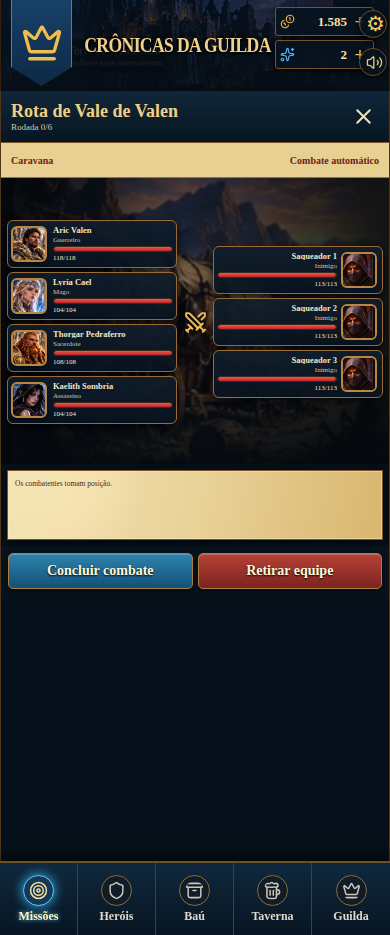
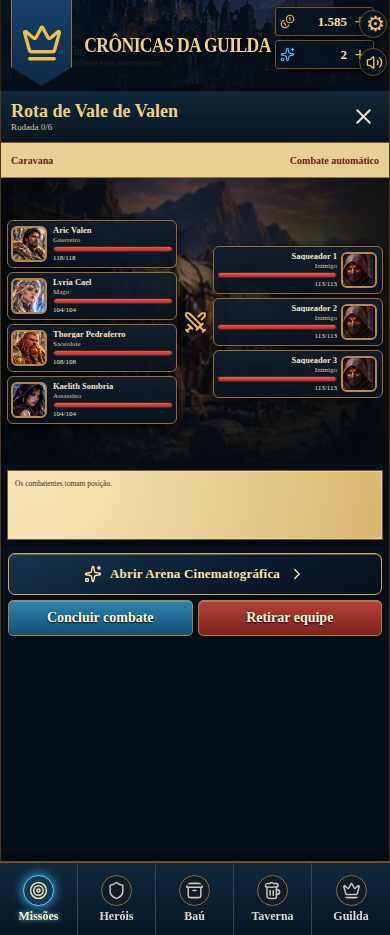
Adiciona Arena Cinematográfica opcional mantendo combate automático clássico
* Cria página cinematográfica independente para confrontos sem alterar combate clássico

* Adiciona estilo de Arena cinematográfica com retratos grandes, efeitos e crônica responsiva

* Testa arena separada no Android, personagens reais, retorno e combate automático

* Exibe estado real de vitória ou derrota na Arena cinematográfica

* Visual snapshots mobile

* Preserva HP real dos combatentes na tela de resultado sem mudar regras

* Audita Arena Cinematográfica e registro correto do HP após combate

* Inclui teste de integridade da Arena no build e smoke

* Prepara campanha de teste com conselho resolvido antes de iniciar missão

* Visual snapshots mobile

* Exibe os quatro heróis da Arena no primeiro painel do Android

* Visual snapshots mobile

---------

Changed region(s): [[0.0, 0.5893, 0.9846, 0.6824]]

diff --git a/app/ui.css b/app/ui.css
@@ -1398,3 +1398,169 @@ img{display:block;max-width:100%}
   .equipment-slot-icon svg{width:23px;height:23px}
   .equipment-slot-copy strong{font-size:10px}
 }
+
+
+/* ARENA CINEMATOGRÁFICA — tela extra, isolada do painel de combate original */
+.battle-actions .cinema-open-button {
+  grid-column:1 / -1;
+  display:flex;align-items:center;justify-content:center;gap:8px;
+  min-height:42px;
+  border:1px solid #d7a64b;border-radius:7px;
+  background:linear-gradient(160deg,#16364f,#0a192e 60%,#07101a);
+  color:#ffe1a0;
+  box-shadow:inset 0 1px #f5d58d55,0 3px 12px #0008;
+  font-size:13px;font-weight:800;letter-spacing:.015em;
+}
+.cinema-open-button svg {width:18px;height:18px}
+.cinema-screen {min-height:100%;padding-bottom:5px;background:#07101b;color:#ffeac1}
+.cinema-screen button:focus-visible {outline:2px solid #fff3bb;outline-offset:2px}
+.cinema-header {
+  display:grid;grid-template-columns:auto minmax(0,1fr) 32px;
+  align-items:center;gap:5px;min-height:48px;padding:6px 9px;
+  background:linear-gradient(180deg,#142638,#07111e);
+  border-bottom:1px solid #bd843b;
+}
+.cinema-back,.cinema-close {border:1px solid #93703d;background:#0f1f30;color:#ffe9b3;border-radius:5px;min-height:31px}
+.cinema-back {display:flex;align-items:center;gap:2px;padding:4px 6px;font-size:10px;font-weight:700}
+.cinema-back svg{width:15px;height:15px}
+.cinema-close{display:grid;place-items:center}
+.cinema-close svg{width:19px;height:19px}
+.cinema-header-label {display:flex;align-items:center;justify-content:center;gap:5px;color:#e3bf78;font-size:10px;font-weight:900;letter-spacing:.04em;white-space:nowrap}
+.cinema-header-label svg{width:15px;height:15px}
+.cinema-mission-head {
+  display:flex;justify-content:space-between;align-items:center;gap:8px;
+  padding:10px 12px 9px;
+  background:linear-gradient(90deg,#172a3bc9,#0e1728bf),url("/reference/mission-3.webp") center 42%/cover;
+  border-bottom:1px solid #78542a;
+}
+.cinema-eyebrow{color:#deb875;font-size:9px;letter-spacing:.11em;font-weight:800}
+.cinema-mission-head h2 {font-size:21px;color:#f8d48b;margin:1px 0;text-shadow:0 2px 3px #000}
+.cinema-mission-head p {font-size:10px;margin:0;color:#e1d3b9}
+.cinema-round {flex-shrink:0;min-width:77px;padding:6px 8px;text-align:center;border:1px solid #ad813f;border-radius:5px;background:#09121ddc;box-shadow:inset 0 0 12px #e3a34422}
+.cinema-round span{display:block;color:#d7b578;font-size:8px;letter-spacing:.09em}
+.cinema-round strong{color:#fff0c0;font-size:17px;white-space:nowrap}
+.cinema-objective-line {
+  display:grid;grid-template-columns:15px minmax(0,1fr) auto;align-items:center;gap:5px;
+  min-height:34px;padding:6px 9px;
+  background:linear-gradient(180deg,#f0d8a5,#c9a166);
+  color:#593316;border-bottom:2px solid #694322;font-size:10px;
+}
+.cinema-objective-line svg{width:14px;height:14px}
+.cinema-objective-line span{overflow:hidden;display:-webkit-box;-webkit-line-clamp:2;-webkit-box-orient:vertical;line-height:1.2}
+.cinema-objective-line b{font-size:9px;color:#7b311b;white-space:nowrap}
+.cinema-arena {
+  position:relative;isolation:isolate;min-height:385px;overflow:hidden;
+  padding:9px 7px 12px;
+  background:linear-gradient(90deg,#06111add 0%,#1323315b 49%,#07111ce6 100%),
+    linear-gradient(180deg,#09121c33 30%,#030609cc),
+    url("/reference/mission-3.webp") center/cover no-repeat;
+  border-bottom:2px solid #b7883a;
+}
+.cinema-atmosphere{position:absolute;inset:0;pointer-events:none;z-index:-1;
+  background:radial-gradient(ellipse at 48% 38%,#67b3e825,transparent 58%),
+  radial-gradient(ellipse at 72% 70%,#ff512e20,transparent 50%);}
+.cinema-arena::before{content:"";position:absolute;inset:0;pointer-events:none;
+  background:repeating-linear-gradient(0deg,transparent,transparent 88px,#ffdf8f07 90px);
+  z-index:0}
+.cinema-fronts{position:relative;z-index:1;display:grid;grid-template-columns:minmax(0,1fr) minmax(0,1fr);gap:9px}
+.cinema-lineup{display:flex;flex-direction:column;gap:7px;min-width:0}
+.cinema-lineup-title{
+  min-height:30px;display:flex;gap:5px;align-items:center;justify-content:center;
+  background:linear-gradient(180deg,#10263eee,#0b1528e9);
+  border:1px solid #b98b49;border-radius:5px;
+  color:#ffde98;text-shadow:0 1px #000;font-size:10px;font-weight:900;letter-spacing:.055em;
+}
+.cinema-lineup-title svg{width:15px;height:15px}
+.cinema-enemies .cinema-lineup-title{background:linear-gradient(180deg,#431e22ee,#190d16f2);border-color:#bb6a50;color:#ffcbaf}
+.cinema-fighter{
+  position:relative;isolation:isolate;overflow:hidden;min-width:0;
+  height:151px;border:1px solid #d3a04e;border-radius:8px;
+  background:#121925;box-shadow:inset 0 0 20px #0007,0 4px 12px #000b;
+}
+.cinema-fighter[data-defeated="true"]{filter:grayscale(.78);opacity:.58}
+.cinema-foe{border-color:#b65a43}
+.cinema-fighter-art{position:absolute;inset:0;z-index:-1}
+.cinema-fighter-art::after{content:"";position:absolute;inset:0;background:linear-gradient(180deg,#02071400 8%,#02071312 38%,#020713ce 80%,#020713f4)}
+.cinema-foe .cinema-fighter-art::after{background:linear-gradient(180deg,#13040705 10%,#13040712 38%,#130407c9 80%,#12060af4)}
+.cinema-fighter-art img{display:block;width:100%;height:100%;object-fit:cover;object-position:center 22%}
+.cinema-foe .cinema-fighter-art img{object-position:center 38%}
+.cinema-art-index{position:absolute;top:4px;left:5px;z-index:1;min-width:20px;height:20px;display:grid;place-items:center;
+  border:1px solid #ebc37a;border-radius:50%;background:#102238e8;color:#ffe9ad;font-size:11px;font-weight:900}
+.cinema-foe .cinema-art-index{left:auto;right:5px;background:#4c1e20e8}
+.cinema-fighter-info{position:absolute;left:0;right:0;bottom:0;display:flex;flex-direction:column;gap:2px;padding:5px 6px 5px;text-shadow:0 1px 3px #000}
+.cinema-fighter-info strong{font-size:11px;line-height:1.06;min-height:12px;overflow:hidden;display:-webkit-box;-webkit-line-clamp:2;-webkit-box-orient:vertical;color:#ffdda2}
+.cinema-foe .cinema-fighter-info strong{color:#ffd3c4}
+.cinema-fighter-info small{color:#e9d9b9;font-size:9px;line-height:1.05}
+.cinema-health{height:8px;overflow:hidden;border:1px solid #cb9653;border-radius:5px;background:#280c13;box-shadow:0 1px 3px #0006}
+.cinema-health i{height:100%;display:block;background:linear-gradient(180deg,#ff6e60,#a91724);transition:width .45s ease}
+.cinema-hp{font-size:9px;color:#fff0ce;font-weight:700;line-height:1.15;text-align:center}
+.cinema-effects{display:flex;gap:3px;flex-wrap:wrap;align-items:center}
+.cinema-effects em{font-style:normal;color:#fff8e4;background:#7c3531c9;border:1px solid #ff8a6752;
+  padding:2px 3px;border-radius:3px;font-size:8px;line-height:1}
+.cinema-effects em[data-status="shield"],.cinema-effects em[data-status="inspired"],.cinema-effects em[data-status="regen"]{background:#1d5b5cc9;border-color:#74f4df70}
+.cinema-clash{position:absolute;left:50%;top:36%;transform:translate(-50%,-50%);
+  width:42px;height:42px;display:grid;place-items:center;z-index:3;
+  color:#f4ce75;background:radial-gradient(circle,#432718ee,#100e13c7 68%,transparent 75%);
+  filter:drop-shadow(0 0 8px #e8ad6166);border-radius:50%;pointer-events:none}
+.cinema-clash svg{width:26px;height:26px}
+.cinema-lightning{position:absolute;top:35%;left:23%;right:23%;height:3px;z-index:2;
+  transform:rotate(-8deg);pointer-events:none;opacity:0;
+  background:linear-gradient(90deg,transparent,#6acaff,#fff7cf,#fd7e3b,transparent);
+  box-shadow:0 0 13px #ffc878,0 0 26px #448df5;animation:cinema-flash 2s ease-out both}
+.cinema-hit{position:absolute;z-index:4;left:50%;top:32%;transform:translate(-50%,-50%);
+  pointer-events:none;display:grid;place-items:center;gap:0;opacity:0;
+  text-align:center;color:#ffcc5e;text-shadow:0 2px 2px #36030a,0 0 12px #c82c15;
+  animation:cinema-number 2.1s ease-out both}
+.cinema-hit b{font-size:26px;line-height:1;font-weight:900}
+.cinema-hit small{font-size:14px;font-weight:900}
+.cinema-hit svg{width:32px;height:32px}
+.cinema-hit-heal{color:#80ffc9;text-shadow:0 2px 3px #053524,0 0 10px #119c68}
+.cinema-hit-critical{color:#fff58e}
+.cinema-hit-magic{color:#98cfff}
+@keyframes cinema-flash{0%{opacity:0;transform:scaleX(.2) rotate(-8deg)}18%{opacity:1;transform:scaleX(1) rotate(-8deg)}45%{opacity:.7}100%{opacity:0}}
+@keyframes cinema-number{0%{opacity:0;transform:translate(-50%,-28%) scale(.65)}19%{opacity:1;transform:translate(-50%,-50%) scale(1.15)}55%{opacity:1;transform:translate(-50%,-85%)}100%{opacity:0;transform:translate(-50%,-145%)}}
+.cinema-turn-bar{display:flex;align-items:center;justify-content:space-between;gap:6px;padding:9px 10px;background:linear-gradient(180deg,#172a3a,#0a1521);border-bottom:1px solid #a67839}
+.cinema-turn-title{display:flex;align-items:center;gap:5px;color:#f2c980;font-size:12px;font-weight:800}
+.cinema-turn-title svg{width:17px;height:17px}
+.cinema-turn-bar>span{color:#cbbda0;font-size:10px;text-align:right}
+.cinema-chronicle{margin:8px 7px;padding:0;overflow:hidden;background:linear-gradient(180deg,#f4dfb0,#d8b97e);color:#4a2a18;border:2px solid #a47c43}
+.cinema-chronicle header{display:flex;align-items:center;gap:6px;min-height:32px;padding:5px 8px;background:#553019;color:#ffe8ae;border-bottom:2px solid #a37a40}
+.cinema-chronicle header svg{width:18px;height:18px}
+.cinema-chronicle header h3{font-size:15px;margin:0;flex:1}
+.cinema-chronicle header small{font-size:9px}
+.cinema-chronicle-entries{display:grid;max-height:190px;overflow:auto}
+.cinema-chronicle p{margin:0;display:grid;grid-template-columns:20px minmax(0,1fr);align-items:start;gap:6px;
+  padding:8px 9px;border-bottom:1px solid #ae8d5b;font-size:11px;line-height:1.3}
+.cinema-chronicle p:last-child{border:0}
+.cinema-chronicle p[data-kind="critical"]{color:#9f301e;font-weight:700}
+.cinema-chronicle p[data-kind="heal"]{color:#196d44;font-weight:700}
+.cinema-log-icon{font-size:17px;line-height:1}
+.cinema-actions{
+  position:sticky;bottom:0;z-index:6;display:grid;grid-template-columns:minmax(0,1fr) minmax(0,1fr);gap:7px;
+  padding:8px;background:#091421ed;box-shadow:0 -4px 12px #0009;border-top:1px solid #aa7538}
+.cinema-actions .action-button{min-height:43px;font-size:12px;display:flex;align-items:center;justify-content:center;gap:5px}
+.cinema-actions svg{width:16px;height:16px}
+.cinema-actions .huge{grid-column:1 / -1}
+.cinema-no-items{margin:4px 12px 12px;color:#b7aa8e;font-size:9px;text-align:center;line-height:1.3}
+@media(max-width:430px){
+  .cinema-header-label{font-size:9px}
+  .cinema-arena{padding:7px 5px 9px}
+  .cinema-fronts{gap:7px}
+  .cinema-lineup{gap:6px}
+  .cinema-fighter{height:124px}
+  .cinema-mission-head h2{font-size:19px}
+  .cinema-fighter-info{padding:4px 5px}
+}
+@media(max-width:355px){
+  .cinema-header-label{font-size:8px}
+  .cinema-back{font-size:9px}
+  .cinema-fighter{height:119px}
+  .cinema-fighter-info strong{font-size:10px}
+  .cinema-effects em{font-size:7px}
+  .cinema-objective-line{grid-template-columns:15px minmax(0,1fr);font-size:9px}
+  .cinema-objective-line b{grid-column:2;font-size:9px}
+}
+@media(prefers-reduced-motion:reduce){
+  .cinema-lightning,.cinema-hit{animation:none;opacity:0}
+  .cinema-health i{transition:none}
+}

diff --git a/app/game-client.tsx b/app/game-client.tsx
@@ -716,14 +716,108 @@ function GuildPage({
   </section>;
 }
 
-function BattleOverlay({ state, expedition, act, close, busy }: {
-  state: Campaign; expedition: Expedition; act: (a: Action) => void; close: () => void; busy: boolean;
+
+const CINEMA_STATUS_LABELS: Record<string,string> = {
+  bleed:"Sangramento",poison:"Envenenado",stun:"Atordoado",shield:"Escudo",
+  regen:"Regeneração",taunt:"Provocação",inspired:"Inspirado",vulnerable:"Vulnerável"
+};
+function CinematicBattlePage({ expedition, act, close, back, busy }: {
+  expedition: Expedition; act:(a:Action)=>void; close:()=>void; back:()=>void; busy:boolean;
 }) {
   const battle = expedition.battle;
   const fighters = battle.combat?.fighters || battle.fighters || [];
   const heroes = fighters.filter(f => f.side === "hero");
   const enemies = fighters.filter(f => f.side === "enemy");
   const active = battle.status === "active" && !!battle.combat;
+  const recent = battle.log.slice(-4).reverse();
+  const latest = recent[0];
+  const mission = battle.combat?.mission;
+  const maxRounds = battle.objective?.targetRounds || battle.combat?.targetRounds;
+  const round = battle.rounds;
+  const health = (hp:number, max:number) => Math.max(0,Math.min(100,max ? hp/max*100 : 0));
+  const status = active ? "Combate automático" : battle.won ? "Vitória da guilda" : battle.status === "retreated" ? "Equipe retirada" : "Combate encerrado";
+  const event = latest?.kind === "critical" ? "critical" : latest?.kind === "heal" ? "heal" : latest?.kind === "ability" ? "magic" : "attack";
+  return <section className="battle-sheet cinema-screen" aria-label="Arena Cinematográfica" data-combat-state={active ? "active" : "finished"}>
+    <header className="cinema-header">
+      <button type="button" className="cinema-back" onClick={back}><ChevronLeft aria-hidden="true"/> Tela clássica</button>
+      <span className="cinema-header-label"><Swords aria-hidden="true"/> ARENA CINEMATOGRÁFICA</span>
+      <button type="button" className="cinema-close" onClick={close} aria-label="Fechar batalha"><X aria-hidden="true"/></button>
+    </header>
+    <div className="cinema-mission-head">
+      <div><span className="cinema-eyebrow">MISSÃO EM ANDAMENTO</span><h2>{battle.title}</h2><p>{mission?.location || battle.objective?.name || "Terras da Guilda"}</p></div>
+      <div className="cinema-round"><span>RODADA</span><strong>{round}{maxRounds ? " / "+maxRounds : ""}</strong></div>
+    </div>
+    <div className="cinema-objective-line"><Shield aria-hidden="true"/><span>{battle.objective?.name || mission?.description || "Derrote os inimigos"}</span><b>{status}</b></div>
+    <div className="cinema-arena" role="region" aria-label="Campo de batalha com personagens e inimigos">
+      <div className="cinema-atmosphere" aria-hidden="true"/>
+      <div className="cinema-lightning" key={"beam-"+round+"-"+battle.log.length} aria-hidden="true"/>
+      <div className="cinema-fronts">
+        <div className="cinema-lineup cinema-heroes">
+          <div className="cinema-lineup-title"><Shield aria-hidden="true"/> SUA EQUIPE</div>
+          {heroes.map((f,i) => <article className="cinema-fighter cinema-ally" key={f.id} data-defeated={f.hp <= 0}>
+            <div className="cinema-fighter-art">
+              <img src={portraitSource(f.name,f.id,f.class || "warrior")} alt="" />
+              <span className="cinema-art-index">{i+1}</span>
+            </div>
+            <div className="cinema-fighter-info">
+              <strong>{f.name}</strong>
+              <small>{f.class ? CLASSES[f.class].name : "Herói"}</small>
+              <div className="cinema-health" role="progressbar" aria-label={"Vida de "+f.name} aria-valuenow={Math.max(0,f.hp)} aria-valuemin={0} aria-valuemax={f.maxHp}><i style={{width:health(f.hp,f.maxHp)+"%"}}/></div>
+              <span className="cinema-hp">{fmt(Math.max(0,f.hp))} / {fmt(f.maxHp)} PV</span>
+              {f.statuses && f.statuses.length > 0 && <span className="cinema-effects">{f.statuses.slice(0,2).map((s,j)=><em key={j} data-status={s.kind}>{CINEMA_STATUS_LABELS[s.kind] || s.kind}</em>)}</span>}
+            </div>
+          </article>)}
+        </div>
+        <div className="cinema-lineup cinema-enemies">
+          <div className="cinema-lineup-title"><Swords aria-hidden="true"/> INIMIGOS</div>
+          {enemies.map((f,i)=><article className="cinema-fighter cinema-foe" key={f.id} data-defeated={f.hp <= 0}>
+            <div className="cinema-fighter-art">
+              <img src={"/enemies/"+enemyArtKey(f.name)+".webp"} alt="" />
+              <span className="cinema-art-index">{i+1}</span>
+            </div>
+            <div className="cinema-fighter-info">
+              <strong>{f.name}</strong>
+              <small>{f.hp <= 0 ? "Derrotado" : "Hostil"}</small>
+              <div className="cinema-health" role="progressbar" aria-label={"Vida de "+f.name} aria-valuenow={Math.max(0,f.hp)} aria-valuemin={0} aria-valuemax={f.maxHp}><i style={{width:health(f.hp,f.maxHp)+"%"}}/></div>
+              <span className="cinema-hp">{fmt(Math.max(0,f.hp))} / {fmt(f.maxHp)} PV</span>
+              {f.statuses && f.statuses.length > 0 && <span className="cinema-effects">{f.statuses.slice(0,2).map((s,j)=><em key={j} data-status={s.kind}>{CINEMA_STATUS_LABELS[s.kind] || s.kind}</em>)}</span>}
+            </div>
+          </article>)}
+        </div>
+      </div>
+      <div className="cinema-clash" aria-hidden="true"><Swords /></div>
+      {latest && <div key={"event-"+round+"-"+battle.log.length} className={"cinema-hit cinema-hit-"+event} aria-hidden="true">{latest.amount ? <><b>{event==="heal"?"+":"−"}{Math.abs(latest.amount)}</b><small>{event==="critical"?"CRÍTICO!":event==="heal"?"CURA":event==="magic"?"MAGIA":"DANO"}</small></> : <Sparkles/>}</div>}
+    </div>
+    <div className="cinema-turn-bar">
+      <div className="cinema-turn-title"><Sparkles aria-hidden="true"/><span>{active ? "Confronto em andamento" : status}</span></div>
+      <span>{TACTICS[expedition.tactic].name} · {heroes.length} heróis × {enemies.length} inimigos</span>
+    </div>
+    <section className="cinema-chronicle parchment" aria-label="Registro real da batalha">
+      <header><ScrollText aria-hidden="true"/><h3>Crônica do combate</h3><small>Atualização automática</small></header>
+      <div className="cinema-chronicle-entries" aria-live="polite" aria-relevant="additions text">
+        {recent.length ? recent.map((l,i)=><p key={battle.log.length-i} data-kind={l.kind}><span className="cinema-log-icon">{l.kind==="heal"?"✚":l.kind==="critical"?"✦":l.kind==="ability"?"✧":"⚔"}</span><span>{l.text}</span></p>) : <p><span className="cinema-log-icon">⚔</span><span>Os combatentes tomam posição para a batalha.</span></p>}
+      </div>
+    </section>
+    <div className="cinema-actions">
+      {active ? <>
+        <button type="button" className="action-button blue" disabled={busy} onClick={()=>act({type:"battle-auto",expeditionId:expedition.id})}><Swords aria-hidden="true"/> Concluir combate</button>
+        <button type="button" className="action-button red" disabled={busy} onClick={()=>act({type:"battle-retreat",expeditionId:expedition.id})}>Retirar equipe</button>
+      </> : <button type="button" className="action-button green huge" onClick={close}>Voltar à guilda</button>}
+    </div>
+    <p className="cinema-no-items">Combate automático original preservado. Equipamentos e consumíveis serão liberados com o futuro catálogo.</p>
+  </section>;
+}
+
+function BattleOverlay({ state, expedition, act, close, busy }: {
+  state: Campaign; expedition: Expedition; act: (a: Action) => void; close: () => void; busy: boolean;
+}) {
+  const [cinematic,setCinematic] = useState(false);
+  const battle = expedition.battle;
+  const fighters = battle.combat?.fighters || battle.fighters || [];
+  const heroes = fighters.filter(f => f.side === "hero");
+  const enemies = fighters.filter(f => f.side === "enemy");
+  const active = battle.status === "active" && !!battle.combat;
+  if (cinematic) return <div className="battle-overlay"><CinematicBattlePage expedition={expedition} act={act} close={close} back={() => setCinematic(false)} busy={busy}/></div>;
   return <div className="battle-overlay">
     <section className="battle-sheet">
       <div className="battle-top"><div><strong>{battle.title}</strong><span>Rodada {battle.rounds}{battle.objective?.targetRounds ? "/" + battle.objective.targetRounds : ""}</span></div><button onClick={close}><X /></button></div>
@@ -735,6 +829,7 @@ function BattleOverlay({ state, expedition, act, close, busy }: {
       </div>
       <div className="battle-log parchment">{battle.log.slice(-5).map((l,i) => <p key={i} data-kind={l.kind}>{l.text}</p>)}{!battle.log.length && <p>Os combatentes tomam posição.</p>}</div>
       <div className="battle-actions">
+        <button type="button" className="cinema-open-button" onClick={() => setCinematic(true)}><Sparkles aria-hidden="true"/> Abrir Arena Cinematográfica <ChevronRight aria-hidden="true"/></button>
         {active ? <><button className="action-button blue" disabled={busy} onClick={() => act({type:"battle-auto",expeditionId:expedition.id})}>Concluir combate</button><button className="action-button red" disabled={busy} onClick={() => act({type:"battle-retreat",expeditionId:expedition.id})}>Retirar equipe</button></> : <button className="action-button green huge" onClick={close}>Voltar à guilda</button>}
       </div>
     </section>

diff --git a/scripts/test-cinematic-battle.ts b/scripts/test-cinematic-battle.ts
@@ -1,0 +1,31 @@
+import assert from "node:assert/strict";
+import fs from "node:fs";
+import { applyAction, missions, newCampaign } from "../lib/game.ts";
+
+const initial = newCampaign(20161009);
+initial.event = null;
+const mission = missions(initial)[0];
+const started = applyAction(initial, {type:"mission",missionId:mission.id,team:initial.team,tactic:"balanced",expeditionSlot:1,startedAt:1_700_000_000_000});
+const expedition = started.expeditions.find(e=>e.slot===1);
+assert.ok(expedition && expedition.battle.status==="active" && expedition.battle.combat,"Missão de teste não iniciou");
+const startingHP = new Map(expedition.battle.combat.fighters.map(f=>[f.id,f.hp]));
+const complete = applyAction(started,{type:"battle-auto",expeditionId:expedition.id});
+const finished = complete.expeditions.find(e=>e.id===expedition.id)?.battle;
+assert.ok(finished,"Expedição desapareceu antes do resultado");
+assert.notEqual(finished.status,"active");
+assert.equal(finished.combat,undefined,"Motor ativo permaneceu após combate");
+assert.ok(finished.fighters && finished.fighters.length >= 5,"Estado visual final dos combatentes não foi preservado");
+assert.equal(new Set(finished.fighters.map(f=>f.id)).size,finished.fighters.length);
+assert.ok(finished.fighters.some(f=>f.hp!==startingHP.get(f.id)),"A Arena voltou a mostrar o HP inicial em vez do resultado");
+assert.ok(finished.fighters.every(f=>f.hp>=0 && f.hp<=f.maxHp),"Vida final inválida");
+const before = fs.readFileSync("app/game-client.tsx","utf8");
+const css = fs.readFileSync("app/ui.css","utf8");
+assert.ok(before.includes('function CinematicBattlePage('));
+assert.ok(before.includes('setCinematic(true)'));
+assert.ok(before.includes('back={() => setCinematic(false)}'));
+assert.ok(before.includes('type:"battle-auto",expeditionId:expedition.id}'));
+assert.ok(before.includes('type:"battle-retreat",expeditionId:expedition.id}'));
+assert.ok(before.includes('className="battle-stage"'),"Tela clássica removida");
+assert.ok(css.includes(".cinema-arena {"));
+assert.ok(css.includes("@media(prefers-reduced-motion:reduce)"));
+console.log("Arena Cinematográfica: mantém motor, tela clássica e HP real no resultado.");

diff --git a/lib/game.ts b/lib/game.ts
@@ -1119,6 +1119,9 @@ function finishBattle(s: Campaign, b: Battle, status: "won" | "lost" | "retreate
   } else { s.losses++; s.fame = Math.max(0, s.fame - (status === "retreated" ? 2 + m.rank : 4 + m.rank * 2)); }
   b.fameChange = s.fame - before;
   note(s, (won ? "Vitória" : status === "retreated" ? "Retirada ordenada" : "Missão fracassou") + " em " + m.title + ". " + (won ? "+" + m.reward + " ouro e +" + b.fameChange + " renome. A equipe ganhou experiência." : b.fameChange + " renome. A equipe ganhou experiência."));
+  // Preserva somente o estado visual final antes de descartar o motor ativo.
+  // Não altera resultados, cálculos ou regras do combate.
+  b.fighters = c.fighters.map(f => ({ id:f.id, name:f.name, side:f.side, ...(f.class ? {class:f.class} : {}), hp:f.hp, maxHp:f.maxHp, ...(f.position ? {position:f.position} : {}), statuses:f.statuses.map(status=>({...status})) }));
   delete b.combat;
   s.lastBattle = b;
   if (!activeExpeditions(s).length) {
